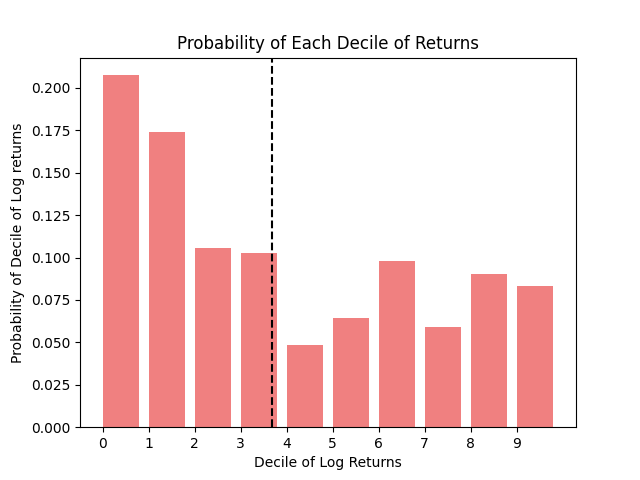
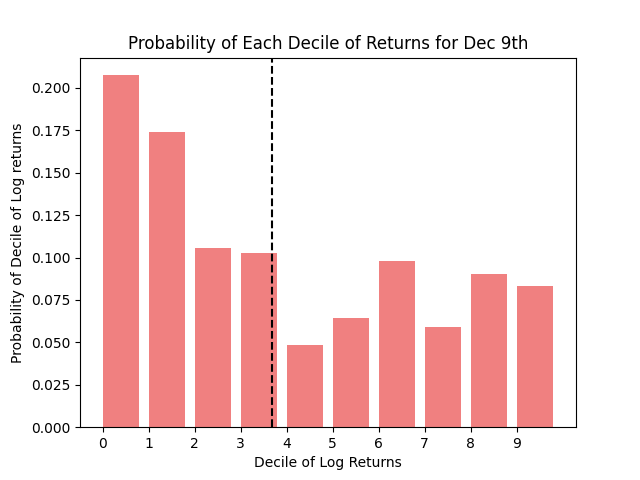
Minor Updates for the graphing

Changed region(s): [[0.1875, 0.0625, 0.8125, 0.125]]

diff --git a/HMM.py b/HMM.py
@@ -223,7 +223,7 @@ class HiddenMarkovModel:
 
     def logsumexp(self, log_probs):
         """
-        Log-sum-exp trick to avoid underflow.
+        Log-sum-exp trick to avoid underflow
         """
         max_log_prob = np.max(log_probs)
         return max_log_prob + np.log(np.sum(np.exp(log_probs - max_log_prob)))
@@ -251,11 +251,11 @@ if __name__ == "__main__":
     emission_row_probs = np.exp(emission_row_probs)
 
     # plot the transitions probabilites for the state that we are in
-    plt.bar(range(0,len(transition_row_probs)),transition_row_probs)
+    plt.bar(range(0,len(transition_row_probs)),transition_row_probs, color = 'lightcoral')
     plt.xticks(range(0, len(transition_row_probs)))
     plt.xlabel('State')
     plt.ylabel('Probability of Being in the Next State')
-    plt.title('Probability of Being in All States at Times t+1')
+    plt.title('Probability of Next States for the Market on Monday Dec 9th')
     plt.savefig('figures/transition_plot.png')
     plt.show()
 
@@ -276,7 +276,7 @@ if __name__ == "__main__":
     plt.xticks(range(0, len(to_viz)))
     plt.xlabel('Decile of Log Returns')
     plt.ylabel('Probability of Decile of Log returns')
-    plt.title('Probability of Each Decile of Returns')
+    plt.title('Probability of Each Decile of Returns for Dec 9th')
     plt.savefig('figures/emission_plot.png')
     plt.legend()
     plt.show()
